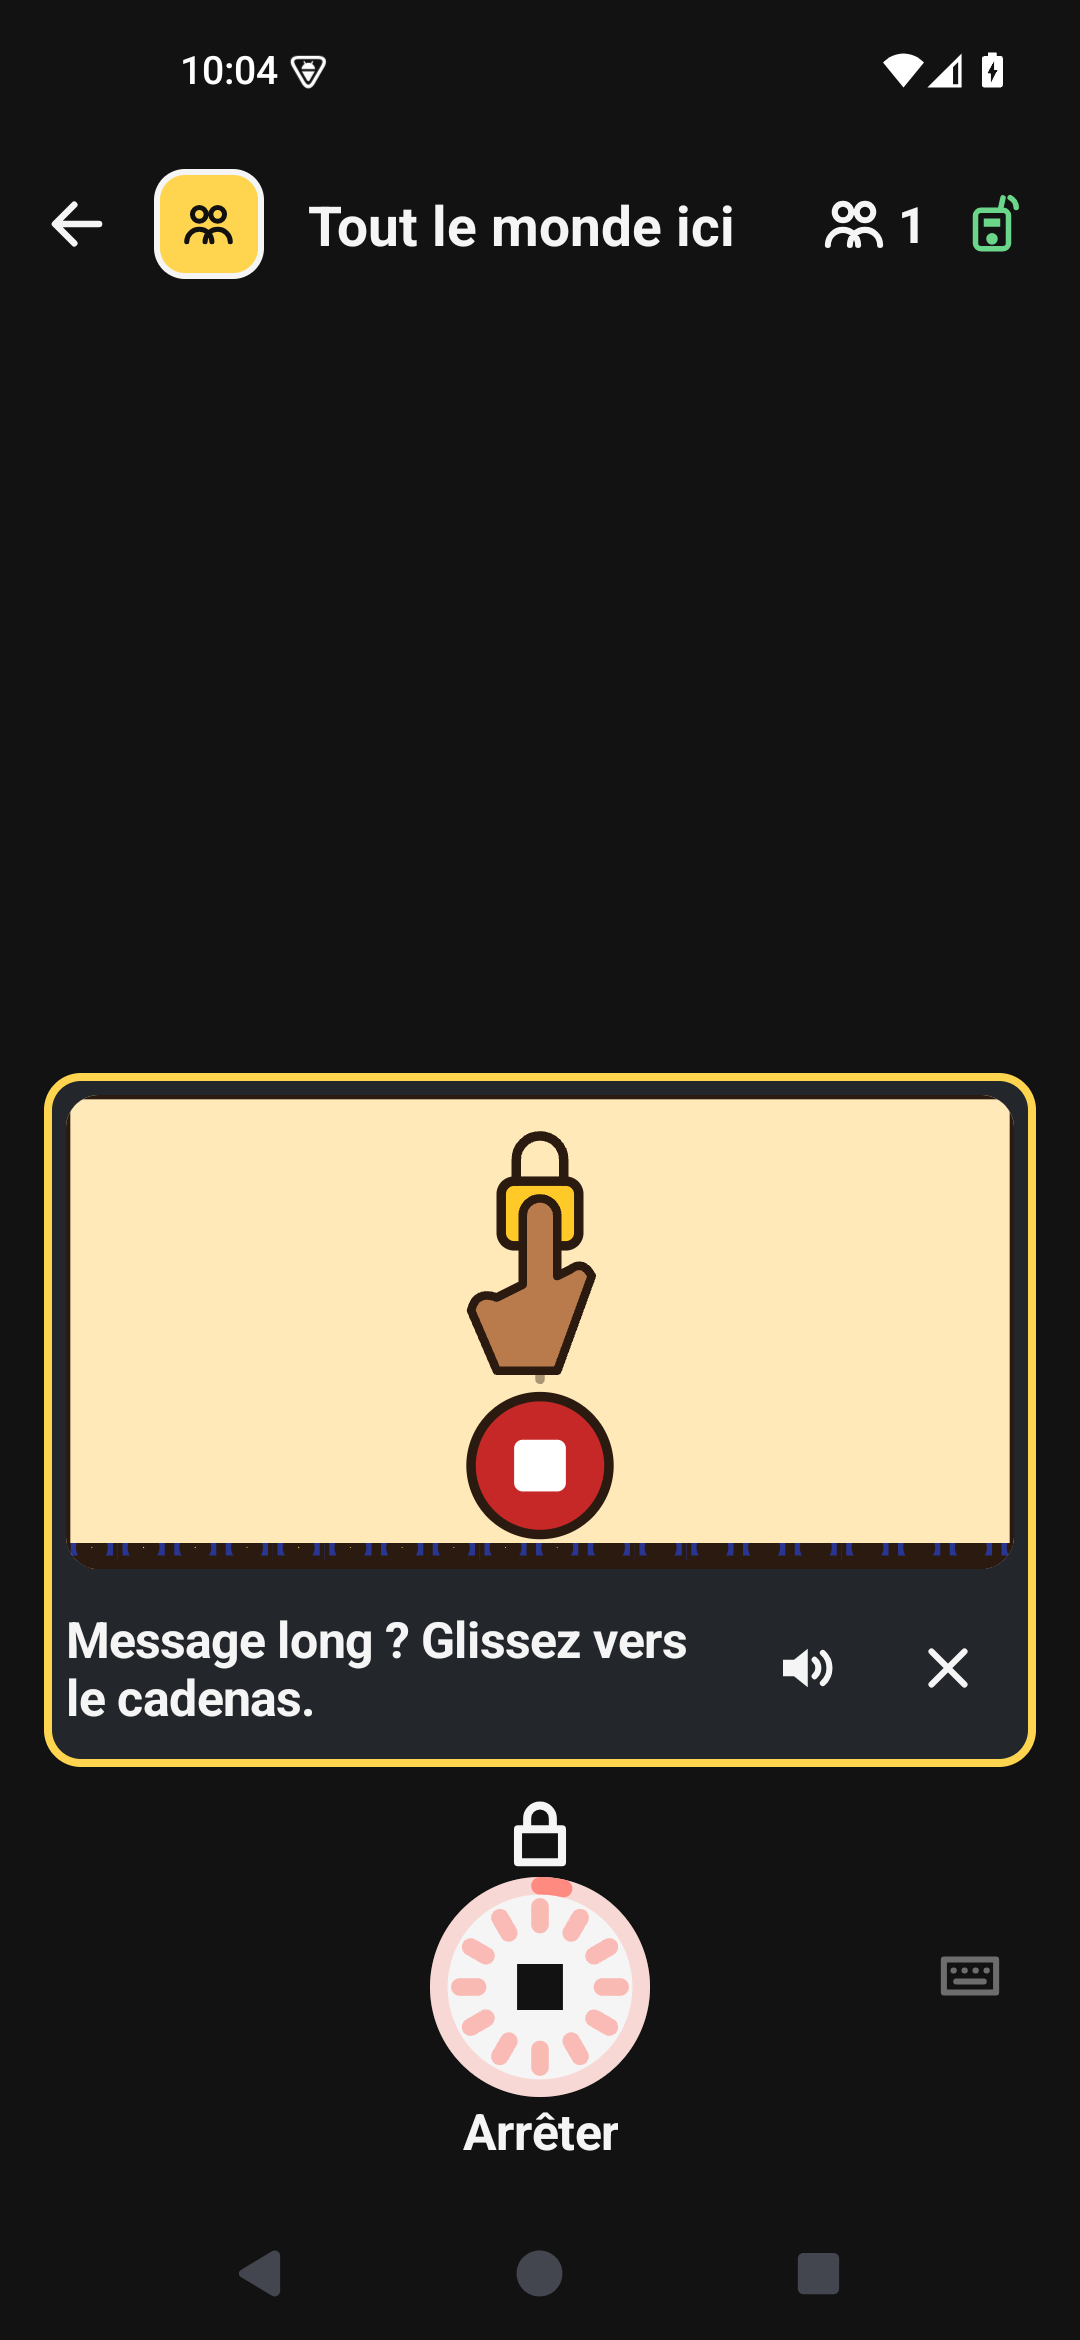
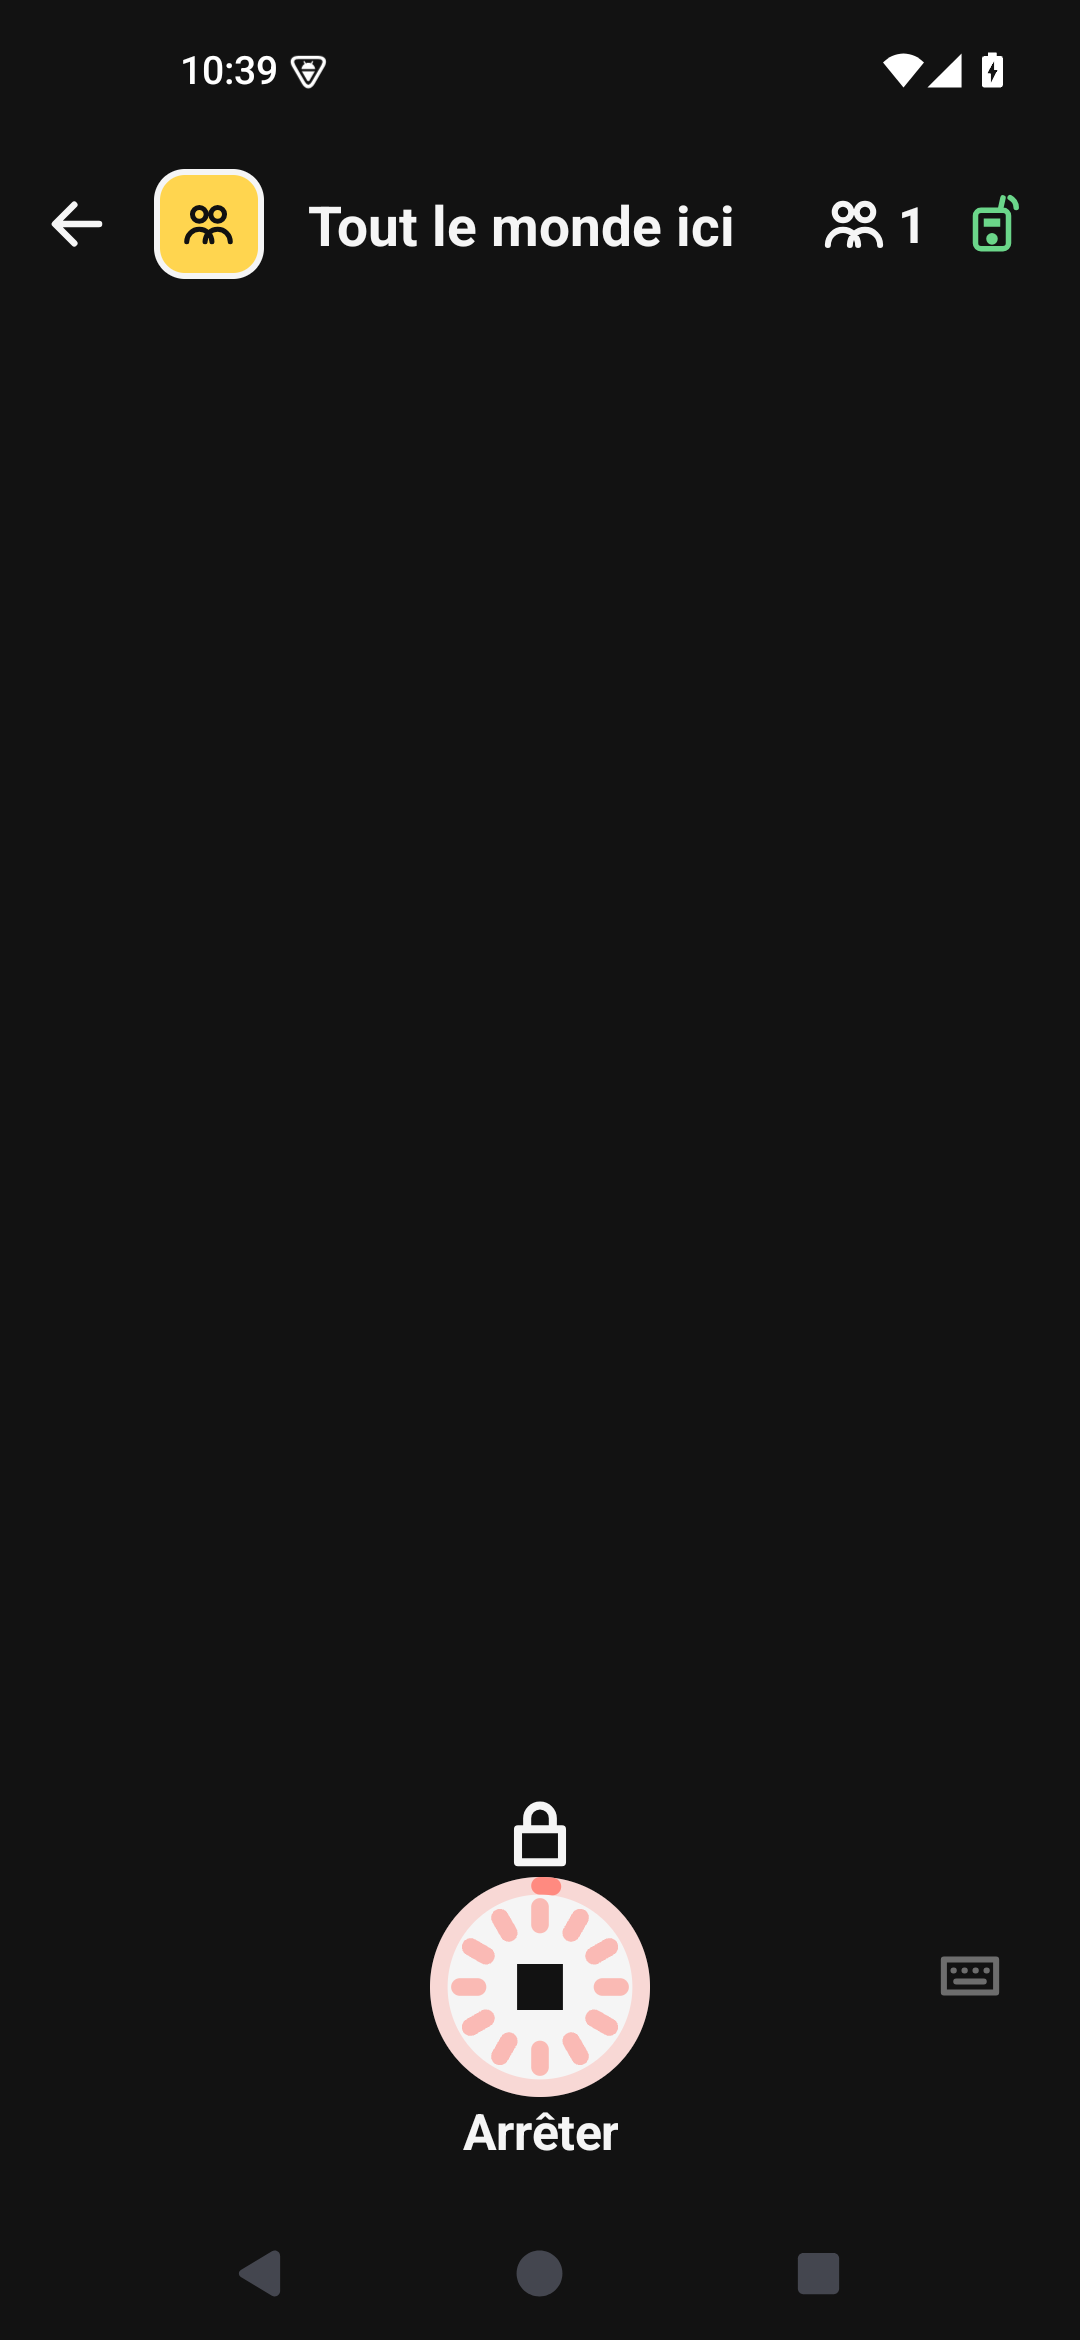
fix: teach the recording gestures only to a finger held past a tap

Changed region(s): [[0.0306, 0.4368, 0.9778, 0.7799]]

diff --git a/android/app/src/androidTest/java/org/phonemesh/app/ConversationActivityTest.kt b/android/app/src/androidTest/java/org/phonemesh/app/ConversationActivityTest.kt
@@ -24,6 +24,7 @@ import org.phonemesh.ble.DeliveryState
 import org.phonemesh.ble.RadioPeer
 import org.phonemesh.core.DeliveryStatus
 import org.phonemesh.core.DraftFit
+import org.phonemesh.core.RecordGesture
 
 /** Fake speech and radio: gestures are synthetic touch events; nothing records, plays or transmits. */
 @RunWith(AndroidJUnit4::class)
@@ -556,6 +557,13 @@ class ConversationActivityTest {
         assertTrue(core.recordLocked)
     }
 
+    /** A finger kept down past a tap, so the recording is held and its gestures are taught. */
+    private fun hold(a: Activity) {
+        touch(a, MotionEvent.ACTION_DOWN)
+        Thread.sleep(RecordGesture.TAP_MS + 200)
+        inst.waitForIdleSync()
+    }
+
     /** A finger down and up in place, as a phone sends it: through the touch listener, never performClick. */
     private fun fingerTap(a: Activity) {
         touch(a, MotionEvent.ACTION_DOWN)
@@ -814,7 +822,7 @@ class ConversationActivityTest {
         TestCore.install()
         val group = TestCore.onMain { core.groupChatId() }
         val a = open(group)
-        touch(a, MotionEvent.ACTION_DOWN)
+        hold(a)
         assertNotNull(Views.tagged(a, "tip:cancel"))
         assertEquals("Changé d'avis ? Glissez à gauche.", Views.textOf(Views.tagged(a, "howto_sentence")!!))
         touch(a, MotionEvent.ACTION_UP, atMs = 1_500)
@@ -825,13 +833,13 @@ class ConversationActivityTest {
         assertEquals("closed is learned; only shown is not", setOf("listen"), core.settings.tipsShown)
         assertEquals(mapOf("cancel" to 1), core.settings.tipShowings)
         Views.tap(a, "draft_clear")
-        Views.tap(a, "mic")
+        hold(a)
         assertNotNull("the second recording teaches lock", Views.tagged(a, "tip:lock"))
     }
 
     /** Hold and release: a recording that is neither locked nor cancelled. Returns the tip it showed. */
     private fun recordOnce(a: Activity): String? {
-        touch(a, MotionEvent.ACTION_DOWN)
+        hold(a)
         val shown = Views.all(a).mapNotNull { it.tag as? String }.filter { it.startsWith("tip:") }
         touch(a, MotionEvent.ACTION_UP, atMs = 1_500)
         assertNotNull(Views.tagged(a, "draft_text"))
@@ -861,7 +869,7 @@ class ConversationActivityTest {
     @Test fun closingATipLearnsItAtOnceAndBringsNoOtherInThatMoment() {
         TestCore.install()
         val a = open(TestCore.onMain { core.groupChatId() })
-        touch(a, MotionEvent.ACTION_DOWN)
+        hold(a)
         assertNotNull(Views.tagged(a, "tip:cancel"))
         Views.tap(a, "tip_close")
         assertEquals(setOf("cancel"), core.settings.tipsShown)
@@ -879,7 +887,7 @@ class ConversationActivityTest {
         TestCore.install()
         val group = TestCore.onMain { core.groupChatId() }
         val a = open(group)
-        touch(a, MotionEvent.ACTION_DOWN)
+        hold(a)
         assertNotNull(Views.tagged(a, "tip:cancel"))
         touch(a, MotionEvent.ACTION_MOVE, dxDp = -120f, atMs = 400)
         assertEquals(AppCore.RecordState.IDLE, core.recordState)
@@ -891,22 +899,38 @@ class ConversationActivityTest {
         assertEquals("tip:lock", recordOnce(a))
     }
 
-    @Test fun aTappedRecordingNeverTeachesSlidingLeft() {
+    @Test fun aTappedRecordingTeachesNoGesture() {
         TestCore.install()
         val a = open(TestCore.onMain { core.groupChatId() })
         Views.tap(a, "mic")
         assertTrue(core.recordLocked)
         assertNull("sliding does nothing in a locked recording", Views.tagged(a, "tip:cancel"))
-        assertNotNull(Views.tagged(a, "tip:lock"))
+        assertNull("it is locked already", Views.tagged(a, "tip:lock"))
         Views.tap(a, "mic")
-        assertEquals(mapOf("lock" to 1), core.settings.tipShowings)
+        assertTrue(core.settings.tipShowings.isEmpty())
+        assertTrue(core.settings.tipsShown.isEmpty())
+    }
+
+    @Test fun aQuickFingerTapLocksWithoutAFlashOfATip() {
+        TestCore.install()
+        val a = open(TestCore.onMain { core.groupChatId() })
+        touch(a, MotionEvent.ACTION_DOWN)
+        assertNull("not a hold yet", Views.tagged(a, "tip:cancel"))
+        touch(a, MotionEvent.ACTION_UP, atMs = 100)
+        assertTrue(core.recordLocked)
+        Thread.sleep(RecordGesture.TAP_MS + 200)
+        inst.waitForIdleSync()
+        assertEquals(AppCore.RecordState.RECORDING, core.recordState)
+        assertNull(Views.tagged(a, "tip:cancel"))
+        assertNull(Views.tagged(a, "tip:lock"))
+        assertTrue(core.settings.tipShowings.isEmpty())
         assertTrue(core.settings.tipsShown.isEmpty())
     }
 
     @Test fun lockingByHandEndsTheCancelTipAsOneShowingAndBringsNoOther() {
         TestCore.install()
         val a = open(TestCore.onMain { core.groupChatId() })
-        touch(a, MotionEvent.ACTION_DOWN)
+        hold(a)
         assertNotNull(Views.tagged(a, "tip:cancel"))
         touch(a, MotionEvent.ACTION_MOVE, dyDp = -100f, atMs = 400)
         assertTrue(core.recordLocked)
@@ -920,21 +944,23 @@ class ConversationActivityTest {
         assertNull(Views.tagged(a, "tip:lock"))
     }
 
-    @Test fun rotationNeitherCountsAShowingNorChangesTheTip() {
+    @Test fun rotationLiftsTheHoldSoItsTipLeavesWithoutCountingAShowing() {
         TestCore.install()
         val group = TestCore.onMain { core.groupChatId() }
         TestCore.onMain { core.settings.tipShowings = mapOf("cancel" to 1) }
         var a: Activity = open(group)
-        Views.tap(a, "mic")
+        hold(a)
         assertNotNull(Views.tagged(a, "tip:lock"))
         a = rotate(a, ActivityInfo.SCREEN_ORIENTATION_LANDSCAPE)
         assertEquals(AppCore.RecordState.RECORDING, core.recordState)
-        assertNotNull(Views.tagged(a, "tip:lock"))
+        assertTrue("no finger survives a rotation", core.recordLocked)
+        assertNull(Views.tagged(a, "tip:lock"))
         assertNull(Views.tagged(a, "tip:cancel"))
         assertEquals(mapOf("cancel" to 1), core.settings.tipShowings)
         assertTrue(core.settings.tipsShown.isEmpty())
         Views.tap(a, "mic")
-        assertEquals("the recording ended: now it counts", mapOf("cancel" to 1, "lock" to 1), core.settings.tipShowings)
+        assertEquals(AppCore.RecordState.IDLE, core.recordState)
+        assertEquals("a rotation is not a showing", mapOf("cancel" to 1), core.settings.tipShowings)
     }
 
     @Test fun aFailedMessageTeachesSendAgainOnceAndResendingClosesIt() {
@@ -973,7 +999,7 @@ class ConversationActivityTest {
         TestCore.install()
         TestCore.onMain { core.settings.tipsShown = setOf("cancel") }
         val a = open(TestCore.onMain { core.groupChatId() })
-        touch(a, MotionEvent.ACTION_DOWN)
+        hold(a)
         assertNotNull(Views.tagged(a, "tip:lock"))
         touch(a, MotionEvent.ACTION_MOVE, dyDp = -100f, atMs = 400)
         assertNull(Views.tagged(a, "tip:lock"))
@@ -1031,7 +1057,7 @@ class ConversationActivityTest {
             TestCore.radio.receive("!1234abcd", "[pm1:fr] Salut", false)
         }
         val a = open(group)
-        touch(a, MotionEvent.ACTION_DOWN)
+        hold(a)
         assertNotNull(Views.tagged(a, "tip:cancel"))
         Views.finish(a)
         Views.waitUntil { core.recordState == AppCore.RecordState.IDLE }
@@ -1040,7 +1066,7 @@ class ConversationActivityTest {
         assertNull(TestCore.onMain { Views.descendants(a.window.decorView).firstOrNull { it.tag == "tip:lock" || it.tag == "tip:arrive" } })
         val again = open(group)
         assertNotNull("unused, so it is offered again", Views.tagged(again, "tip:arrive"))
-        Views.tap(again, "mic")
+        hold(again)
         assertNotNull(Views.tagged(again, "tip:lock"))
         assertEquals(mapOf("arrive" to 2, "cancel" to 1), core.settings.tipShowings)
     }
@@ -1049,7 +1075,7 @@ class ConversationActivityTest {
         TestCore.install()
         val group = TestCore.onMain { core.groupChatId() }
         val a = open(group)
-        touch(a, MotionEvent.ACTION_DOWN)
+        hold(a)
         val picture = Views.tagged(a, "howto:cancel") as HowToView
         TestCore.onMain { core.openChat(group) }
         inst.waitForIdleSync()
@@ -1154,7 +1180,7 @@ class ConversationActivityTest {
         assertTrue("the notice's picture is as wide as the notice", TestCore.onMain { picture.width == notice.width && picture.height * 2 == picture.width })
         assertNull("one picture at a time", Views.tagged(a, "tip:listen"))
         assertTrue(core.settings.tipsShown.isEmpty())
-        assertEquals("only the recording's tip had a moment; a tapped recording teaches lock", mapOf("lock" to 1), core.settings.tipShowings)
+        assertTrue("a tapped recording has no tip, and the waiting draft tip had no moment", core.settings.tipShowings.isEmpty())
         for (tag in listOf("draft_clear", "draft_play", "draft_send", "draft_text", "howto:toolong")) assertTrue(tag, whole(checkNotNull(Views.tagged(a, tag))))
         assertEquals(emptyList<String>(), A11yCheck.problems(a))
         // Editing ends the notice; the draft's own tip takes its turn.

diff --git a/android/app/src/main/java/org/phonemesh/app/ConversationActivity.kt b/android/app/src/main/java/org/phonemesh/app/ConversationActivity.kt
@@ -53,6 +53,14 @@ class ConversationActivity : ScreenActivity() {
     private var downX = 0f
     private var downY = 0f
     private var downAt = 0L
+    /** The finger stayed past a tap ([RecordGesture.TAP_MS]): a quick tap locks at once and is taught no gesture. */
+    private var holdConfirmed = false
+    private val confirmHold = Runnable {
+        if (pressing && started != null) {
+            holdConfirmed = true
+            render()
+        }
+    }
     private val bubbles = BubbleAdapter()
     private lateinit var title: TextView
     private lateinit var people: TextView
@@ -392,8 +400,11 @@ class ConversationActivity : ScreenActivity() {
                 downX = event.rawX
                 downY = event.rawY
                 downAt = event.eventTime
+                holdConfirmed = false
+                window.decorView.removeCallbacks(confirmHold)
                 pressing = true // before startRecording: its render must not treat the press as lost
                 pressing = core.startRecording(chatId)
+                if (pressing) window.decorView.postDelayed(confirmHold, RecordGesture.TAP_MS)
                 return pressing
             }
             MotionEvent.ACTION_MOVE -> if (pressing) {
@@ -439,7 +450,7 @@ class ConversationActivity : ScreenActivity() {
     private fun lockRecording() {
         core.recordLocked = true
         if (tip == Tip.LOCK) endTip(learned = true)
-        // No finger, so sliding left does nothing now: the cancel tip counts one showing and no other takes its place.
+        // No finger, so sliding left does nothing now: the cancel tip counts one showing and the lock tip does not follow.
         if (tip == Tip.CANCEL) {
             endTip(learned = false)
             tipped = TipPlace.RECORDING
@@ -490,6 +501,7 @@ class ConversationActivity : ScreenActivity() {
     override fun onScreenStop() {
         val owner = started ?: return
         started = null
+        window.decorView.removeCallbacks(confirmHold)
         if (!isChangingConfigurations) endTip(learned = false, owner.settings)
         owner.closeChat(chatId)
         if (!isChangingConfigurations) {
@@ -555,7 +567,7 @@ class ConversationActivity : ScreenActivity() {
                 failed = messages.any { it.status?.canResend == true },
                 received = messages.any { it.direction == Direction.IN },
                 direct = core.history.chat(chatId)?.kind != ChatKind.GROUP,
-                held = !core.recordLocked,
+                held = pressing && holdConfirmed && !core.recordLocked,
             )
             Tips.next(place, facts, core.settings.tipsShown, core.settings.tipShowings)?.let { showTip(it) }
         }

diff --git a/android/core/src/main/kotlin/org/phonemesh/core/Tips.kt b/android/core/src/main/kotlin/org/phonemesh/core/Tips.kt
@@ -15,7 +15,8 @@ enum class Tip(val key: String, val place: TipPlace) {
 
 /**
  * What has happened in the open chat. [direct] is a private chat: only there can a message reach "Delivered".
- * [held] is a finger on the microphone: a recording started by a tap is locked, so sliding left does nothing.
+ * [held] is a finger kept on the microphone past a tap: a recording started by a tap is locked, so neither sliding
+ * left nor sliding up does anything.
  */
 data class TipFacts(val sent: Boolean, val failed: Boolean, val received: Boolean, val direct: Boolean, val held: Boolean = true)
 
@@ -33,8 +34,8 @@ object Tips {
             .minByOrNull { showings[it.key] ?: 0 }
 
     private fun due(tip: Tip, facts: TipFacts): Boolean = when (tip) {
-        Tip.CANCEL -> facts.held
-        Tip.LOCK, Tip.LISTEN -> true
+        Tip.CANCEL, Tip.LOCK -> facts.held
+        Tip.LISTEN -> true
         Tip.FAILED -> facts.failed
         Tip.ARRIVE -> facts.received
         // A group message ends at "Sent", so the picture that ends on "Delivered" belongs to private chats.

diff --git a/android/core/src/test/kotlin/org/phonemesh/core/TipsTest.kt b/android/core/src/test/kotlin/org/phonemesh/core/TipsTest.kt
@@ -14,12 +14,11 @@ class TipsTest {
         assertNull(Tips.next(TipPlace.RECORDING, none, setOf("cancel", "lock")))
     }
 
-    @Test fun slidingLeftIsTaughtOnlyWhileAFingerHolds() {
+    @Test fun theRecordingGesturesAreTaughtOnlyWhileAFingerHolds() {
         val tapped = none.copy(held = false)
-        assertEquals(Tip.LOCK, Tips.next(TipPlace.RECORDING, tapped, emptySet()))
-        assertNull(Tips.next(TipPlace.RECORDING, tapped, setOf("lock")))
-        assertEquals("not due, so its fewer showings do not count", Tip.LOCK,
-            Tips.next(TipPlace.RECORDING, tapped, emptySet(), mapOf("lock" to 2)))
+        assertNull(Tips.next(TipPlace.RECORDING, tapped, emptySet()))
+        assertNull(Tips.next(TipPlace.RECORDING, tapped, emptySet(), mapOf("cancel" to 2, "lock" to 1)))
+        assertEquals("the draft does not depend on a finger", Tip.LISTEN, Tips.next(TipPlace.DRAFT, tapped, emptySet()))
     }
 
     @Test fun aDraftTeachesListen() {

diff --git a/android/app/src/androidTest/java/org/phonemesh/app/ScreenStates.kt b/android/app/src/androidTest/java/org/phonemesh/app/ScreenStates.kt
@@ -5,6 +5,7 @@ import android.view.MotionEvent
 import androidx.test.platform.app.InstrumentationRegistry
 import org.phonemesh.ble.DeliveryState
 import org.phonemesh.ble.RadioPeer
+import org.phonemesh.core.RecordGesture
 import org.phonemesh.core.StoryTimeline
 
 /** Each screen in a realistic state, built on the fake radio and speech. Used by ScreenChecksTest and ScreenshotTour. */
@@ -121,6 +122,7 @@ object ScreenStates {
             mic.dispatchTouchEvent(down)
             down.recycle()
         }
+        Thread.sleep(RecordGesture.TAP_MS + 200) // past a tap: only a hold is taught its gestures
         inst.waitForIdleSync()
         val held = TestCore.onMain { TestCore.core.recordState == AppCore.RecordState.RECORDING && !TestCore.core.recordLocked }
         expect(held, "recording held by a finger")

diff --git a/docs/android-verification.md b/docs/android-verification.md
@@ -276,6 +276,7 @@ Emulator `Phonemesh_API_35`, fake radio and fake speech, 2026-10-11.
 - Names: the radio screen shows the name the radio announces; the shared chat is titled "Everyone nearby", or the radio's main channel name when its owner set one (preset names such as LongFast count as none) (`MeshtasticProtocolTest`, `RadioActivityTest`, `ChatsActivityTest`, `ConversationActivityTest`, `AppCoreTest`).
 - Not checked on a phone: the dots in motion (the tests turn animations off), the Stop fix with a finger, and both names read from a real radio. Pending — owner.
 - Later, 2026-10-12: the "slide left" tip shows only while a finger holds the microphone; locking by hand ends it as one showing, with no other tip in that recording (`TipsTest`, `ConversationActivityTest`). 363 selected tests, all passed; `07-recording-tip*.png` now shows a held recording.
+- Later, 2026-10-12: the "slide up to lock" tip follows the same rule. A finger counts as holding only after `RecordGesture.TAP_MS` (300 ms), so a quick tap with a real finger never flashes a tip; a rotation lifts the hold and its tip leaves without counting a showing (`TipsTest`, `ConversationActivityTest`). 364 selected tests, all passed; `07-recording*.png` (a tapped recording) now shows no tip.
 
 ## Radio region: Togo legal notes and results
 
